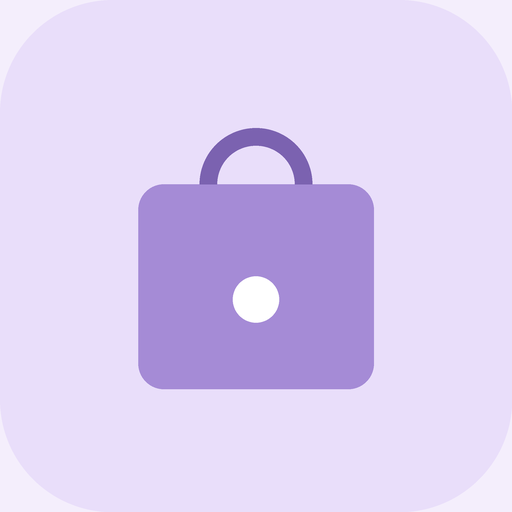
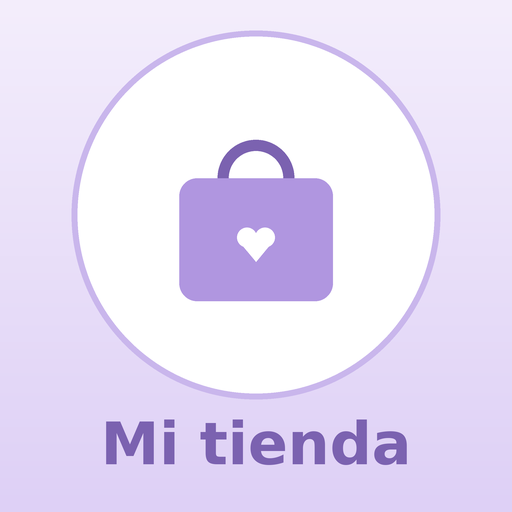
Tienda simple: ícono de app 'Mi tienda' en lila pastel
Claude-Session: https://claude.ai/code/session_014XELt9AtAmcwcXvrDAGFvy

diff --git a/api/tienda.js b/api/tienda.js
@@ -38,7 +38,7 @@ module.exports = async (req, res) => {
       const k = String(q.k || ''), dueño = k.length >= 12 && f && f.h === hash(k), start = '/tienda/' + id + (dueño ? '?editar=' + encodeURIComponent(k) : '');
       const icons = [];
       if (/^\/api\/tienda\?f=/.test(String(d.logo || ''))) icons.push({ src: d.logo, sizes: '400x400', type: 'image/jpeg', purpose: 'any' });
-      icons.push({ src: '/api/tienda?icono=' + id, sizes: 'any', type: 'image/svg+xml', purpose: 'any' }, { src: '/icons/tienda-192.png', sizes: '192x192', type: 'image/png', purpose: 'any' }, { src: '/icons/tienda-512.png', sizes: '512x512', type: 'image/png', purpose: 'any' }, { src: '/icons/tienda-512.png', sizes: '512x512', type: 'image/png', purpose: 'maskable' });
+      icons.push({ src: '/icons/tienda-192.png?v=2', sizes: '192x192', type: 'image/png', purpose: 'any' }, { src: '/icons/tienda-512.png?v=2', sizes: '512x512', type: 'image/png', purpose: 'any' }, { src: '/icons/tienda-512-mask.png?v=2', sizes: '512x512', type: 'image/png', purpose: 'maskable' });
       res.setHeader('Content-Type', 'application/manifest+json; charset=utf-8'); res.setHeader('Cache-Control', dueño ? 'private, no-store' : 'public, max-age=600');
       return res.status(200).send(JSON.stringify({ name: nom + (dueño ? ' (editar)' : ''), short_name: String(d.appNom || 'Mi tienda online').slice(0, 20), id: start, start_url: start, scope: '/tienda/' + id, display: 'standalone', orientation: 'portrait', background_color: '#f4eefc', theme_color: '#efe6fb', lang: 'es', icons }));
     }

diff --git a/tienda.html b/tienda.html
@@ -1,5 +1,5 @@
 <!doctype html><html lang="es"><head><meta charset="utf-8"><meta name="viewport" content="width=device-width,initial-scale=1,viewport-fit=cover">
-<title>Mi tienda</title><link rel="apple-touch-icon" id="appleIco" href="/icons/tienda-192.png"><meta name="apple-mobile-web-app-capable" content="yes"><meta name="apple-mobile-web-app-title" id="appTit" content="Mi tienda online"><meta name="mobile-web-app-capable" content="yes"><meta name="theme-color" content="#efe6fb">
+<title>Mi tienda</title><link rel="apple-touch-icon" id="appleIco" href="/icons/tienda-180.png?v=2"><meta name="apple-mobile-web-app-capable" content="yes"><meta name="apple-mobile-web-app-title" id="appTit" content="Mi tienda online"><meta name="mobile-web-app-capable" content="yes"><meta name="theme-color" content="#efe6fb">
 <link rel="preconnect" href="https://fonts.googleapis.com"><link href="https://fonts.googleapis.com/css2?family=Quicksand:wght@500;600;700&family=Playfair+Display:wght@600;700&display=swap" rel="stylesheet">
 <style>
 :root{--fondo:#f4eefc;--ac:#a58bd6;--ac2:#7b62b0;--card:#ffffff;--tx:#3d3550;--mut:#8a82a0;--line:#e6dcf6}
